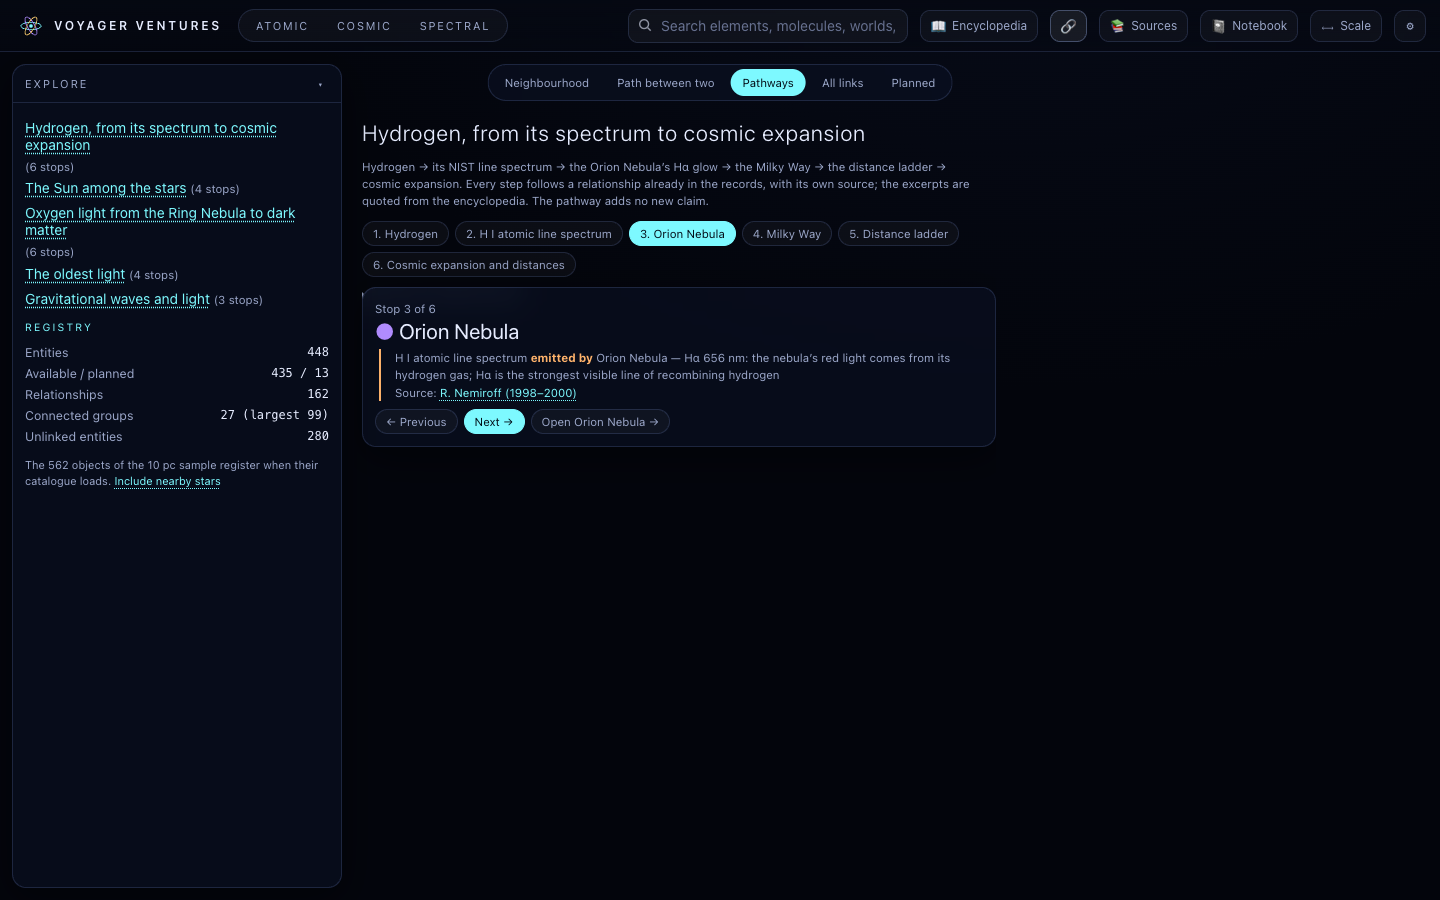
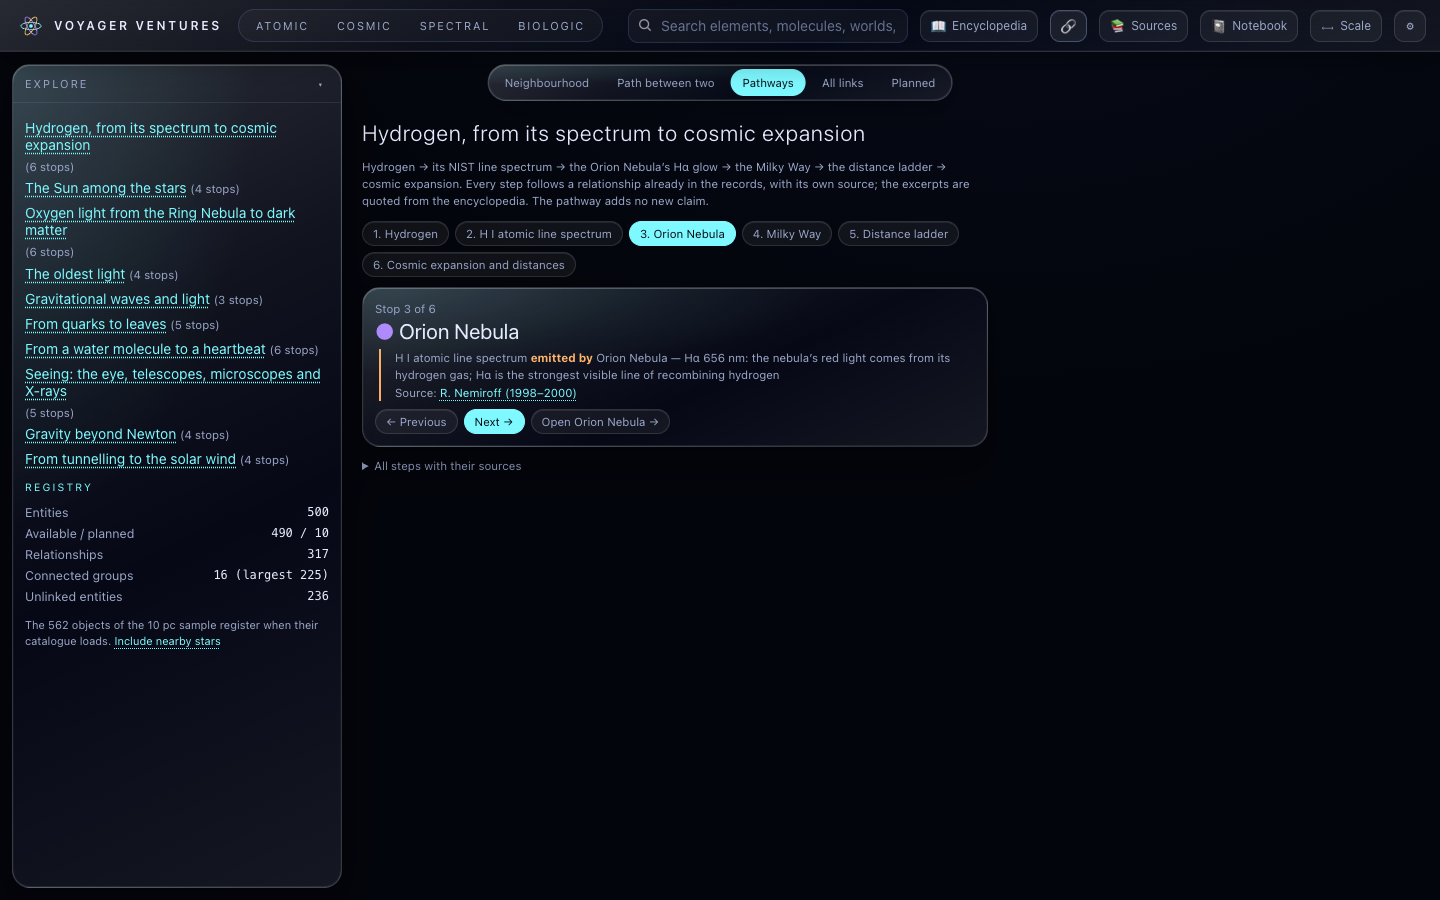
Gate 14.7: unified pathways through the Phase 11-14 records — Phase 14 complete
Five pathways, every step an existing sourced relationship; two Phase 14 edges
re-pointed to the Sun; pathway stop card no longer covers the steps list.

Claude-Session: https://claude.ai/code/session_012kk9KVTjrcZt1kBsRpDRu1

diff --git a/src/shared/pathways/pathways.ts b/src/shared/pathways/pathways.ts
@@ -21,6 +21,17 @@ export const PATHWAYS: Pathway[] = [
     entities: ['context:distance-ladder', 'context:cosmic-expansion', 'context:cmb', 'wave:em-microwave'] },
   { id: 'gravitational-waves', title: 'Gravitational waves and light', blurb: 'The GW150914 remnant → gravitational waves → gamma rays (GW170817 and GRB 170817A).',
     entities: ['compact-object:gw150914-final', 'context:gravitational-waves', 'wave:em-gamma'] },
+  // ---------------- Phase 14, Gate 14.7: pathways through the Phase 11–14 records ----------------
+  { id: 'quarks-to-leaves', title: 'From quarks to leaves', blurb: 'Nuclei → the particles of the Standard Model → visible light (the photon) → photosynthesis → plants.',
+    entities: ['instrument:nuclei', 'instrument:particles', 'wave:em-visible', 'process:photosynthesis', 'instrument:plants'] },
+  { id: 'water-to-nerves', title: 'From a water molecule to a heartbeat', blurb: 'Water → the body-to-molecule zoom → the human body → the heart → the ECG (senses and signals) → nerves.',
+    entities: ['molecule:pubchem-962', 'instrument:zoom', 'instrument:body', 'structure:organ-heart', 'instrument:senses', 'instrument:nerves'] },
+  { id: 'eye-to-xrays', title: 'Seeing: the eye, telescopes, microscopes and X-rays', blurb: 'Visible light → the eye → telescopes → imaging the body → X-rays.',
+    entities: ['wave:em-visible', 'instrument:senses', 'instrument:telescopes', 'instrument:imaging', 'wave:em-xray'] },
+  { id: 'gravity-beyond-newton', title: 'Gravity beyond Newton', blurb: 'Tests of general relativity → gravitational lensing → dark-matter evidence → dark matter or modified gravity?',
+    entities: ['instrument:grtests', 'context:gravitational-lensing', 'context:dark-matter', 'instrument:models'] },
+  { id: 'tunnelling-to-solar-wind', title: 'From tunnelling to the solar wind', blurb: 'The quantum lab → nuclei → the Sun → its plasma and the solar wind.',
+    entities: ['instrument:quantum', 'instrument:nuclei', 'body:sun', 'instrument:plasma'] },
 ];
 
 /** The relationship joining a → b (forward edges preferred), or null when the registry has none. */

diff --git a/tests/e2e/phase14.spec.ts b/tests/e2e/phase14.spec.ts
@@ -131,3 +131,21 @@ test('114 dark matter or modified gravity: the radial acceleration relation on 1
   await expect(page.locator('.stage-head h1')).toContainText('NGC3198');
   await shot(page, '114b-ngc3198', 'One galaxy: NGC 3198’s observed rotation curve, the Newtonian curve of its stars and gas, and eq. (4) with the paper’s fixed g† — nothing fitted to this galaxy.');
 });
+
+// ---------------- Gate 14.7 ----------------
+test('115 unified pathways: five walks through the Phase 11–14 records, every step a sourced relationship', async ({ page }) => {
+  await page.goto('/#/relations?tab=pathways&p=water-to-nerves');
+  await expect(page.getByRole('heading', { name: 'From a water molecule to a heartbeat' })).toBeVisible();
+  await expect(page.getByRole('list', { name: 'Stops' }).getByRole('listitem')).toHaveCount(6);
+  await page.goto('/#/relations?tab=pathways&p=water-to-nerves&s=3');
+  const s4 = page.getByRole('region', { name: 'Stop 4 of 6' });
+  await expect(s4).toContainText('Heart');
+  await shot(page, '115a-pathway-heart', 'Unified pathways (Gate 14.7): “From a water molecule to a heartbeat” — water → the body-to-molecule zoom → the body → the heart → the ECG → nerves, each step an existing relationship with its own source.');
+  await page.goto('/#/relations?tab=pathways&p=gravity-beyond-newton&s=3');
+  const last = page.getByRole('region', { name: 'Stop 4 of 4' });
+  await expect(last).toContainText('Dark matter or modified gravity?');
+  await expect(last).toContainText('McGaugh');
+  await page.goto('/#/relations?tab=pathways&p=quarks-to-leaves&s=2');
+  await expect(page.getByRole('region', { name: 'Stop 3 of 5' })).toContainText('the photon carries the electromagnetic force');
+  await shot(page, '115b-pathway-quarks', '“From quarks to leaves”: nuclei → Standard Model particles → visible light (DOE: the photon carries the electromagnetic force) → photosynthesis → plants.');
+});

diff --git a/src/modes/relations/RelationsView.tsx b/src/modes/relations/RelationsView.tsx
@@ -217,7 +217,7 @@ function PathwaysTab() {
         <ol className="pathway-stops" aria-label="Stops" style={{ display: 'flex', flexWrap: 'wrap', gap: 6, listStyle: 'none', padding: 0, margin: '6px 0 10px' }}>
           {p.entities.map((x, i) => <li key={x}><button className={`chip ${i === at ? 'active' : ''}`} aria-current={i === at ? 'step' : undefined} onClick={() => go(i)}>{i + 1}. {label(x)}</button></li>)}
         </ol>
-        <section aria-label={`Stop ${at + 1} of ${n}`} className="panel" style={{ padding: 12 }}>
+        <section aria-label={`Stop ${at + 1} of ${n}`} className="panel" style={{ padding: 12, position: 'relative' }}>
           <div className="note">Stop {at + 1} of {n}</div>
           <h2 style={{ margin: '2px 0 6px', fontWeight: 400 }}><span style={{ color: MODE_COL[entityMode(e)] }}>●</span> {e.label}</h2>
           {into && (() => { const src = edgeSource(into.edge); return (

diff --git a/DEVELOPMENT_ROADMAP.md b/DEVELOPMENT_ROADMAP.md
@@ -23,7 +23,7 @@ Treat each phase below as a proposal. Re-assess numerical methods, dataset acces
 | **11 Biologic Foundations** | 11.1 bio data infrastructure & atlas · 11.2 biomolecular encyclopedia · 11.3 protein structures · 11.4 cells · 11.5 organelles & membranes · 11.6 transport & biochemistry · 11.7 plant cells & microorganisms | **Complete** (Gates 11.1–11.7, 2026-11-28; not deployed — no deploy until Phase 14) |
 | **12 Human Anatomy & Physiology** | 12.1 reference model · 12.2 skeletal/muscular · 12.3 cardiovascular/respiratory · 12.4 nervous system & electrophysiology · 12.5 digestive/urinary/endocrine · 12.6 immune/reproductive/integumentary · 12.7 organ-to-cell navigation | **Complete** (Gates 12.1–12.7, 2026-11-28; not deployed — no deploy until Phase 14) |
 | 13 Waves, Life & Imaging | 13.1 vision · 13.2 hearing · 13.3 bioelectricity · 13.4 EM–tissue interactions · 13.5 optical & electron microscopy · 13.6 ultrasound/X-ray/MRI · 13.7 integrated visualisations | **Complete** — `#/biologic/senses` (13.1–13.3), `#/biologic/imaging` (13.4–13.7) |
-| 14 Advanced Foundations | 14.1 Standard Model atlas · 14.2 quantum lab · 14.3 nuclear physics & nucleosynthesis · 14.4 plasma/MHD · 14.5 advanced relativity · 14.6 cosmology & dark-matter model comparison · 14.7 unified pathways | **In progress** — 14.1–14.6 done (`#/atomic/particles`, `/quantum`, `/nuclei`; `#/cosmic/plasma`, `/grtests`, `/models`) |
+| 14 Advanced Foundations | 14.1 Standard Model atlas · 14.2 quantum lab · 14.3 nuclear physics & nucleosynthesis · 14.4 plasma/MHD · 14.5 advanced relativity · 14.6 cosmology & dark-matter model comparison · 14.7 unified pathways | **Complete** (2026-11-28; not deployed) — `#/atomic/particles`, `/quantum`, `/nuclei`; `#/cosmic/plasma`, `/grtests`, `/models`; five new pathways |
 | Queued: **15–19 Computing & Engineering** | 15 computing & computer engineering · 16 machine learning & AI · 17 mechanical & electrical engineering · 18 aerospace & space systems · 19 integrated systems & engineering simulator (brief: [COMPUTING_ENGINEERING_BRIEF](COMPUTING_ENGINEERING_BRIEF.md), verbatim) | **Queued** — begins once Phase 14 is complete (user, 2026-11-28) |
 | Queued: Meteorology & Climate | atmospheric physics · Earth weather atlas · storm laboratory · planetary meteorology · climate through geological time · oceans and biomes · human technology and environmental change · future climate · environmental sandbox (brief: [METEOROLOGY_EXPANSION_BRIEF](METEOROLOGY_EXPANSION_BRIEF.md), its phases A–G) | **Queued** (requested 2026-11-28 “once the computing and engineering section is complete”: after Phases 15–19; phase numbers from 20, assigned when it starts) |
 

diff --git a/HANDOFF_PHASES_11_14.md b/HANDOFF_PHASES_11_14.md
@@ -17,7 +17,7 @@ So:
 
 - **Phase 11 complete (2026-11-28):** 11.1 0487514 · 11.2 4e52562 · 11.3 b9ef5e5 · 11.4 d9f0b3b · 11.5 081aecf · 11.6 f4f7b6c · 11.7 d4050c5 (+ fix 0e3f379). 854 science tests, browser tests 94–100, 49 manifests, 208 sources. Biologic routes: `#/biologic` (scale of life), `/molecules`, `/proteins`, `/cells`, `/membranes`, `/transport`, `/plants`; top bar: Scale of life · Molecules ▾ · Cell biology ▾ · Plants & microbes (room for one more chip or menu at 1440 px — use a menu for Phase 12, e.g. **Body ▾**).
 - **Phase 12 complete (2026-11-28):** 12.1 49ed0b9 · 12.2–12.3 4056d97 · 12.4 2654619 · 12.5–12.7 970207c. 888 science tests, browser tests 101–106, 53 manifests, 219 sources. Body ▾ menu (Human body, Movement, Circulation & breathing, Nerves, Organ systems, From body to molecule). BodyParts3D organs built by `scripts/blender/build_body.py` (needs the BP3D OBJ zip unpacked; part lists in `scripts/ingestion/data/`). Research notes: `research/SOURCE_NOTES_PHASE12.md`. Phase 13 research agents launched; full e2e run in background.
-- **Phase 14 in progress:** 14.1–14.3 (Subatomic ▾) 5bbcab5; 14.4–14.6 (Cosmic plasma, grtests, models). Research notes: `research/SOURCE_NOTES_PHASE14.md`. End-of-Phase-13 full suite 102/102.
+- **Phase 14 complete (2026-11-28):** 14.1–14.3 5bbcab5 · 14.4–14.6 977106d · 14.7 pathways (next commit). Browser tests 109–115. See `HANDOFF_PHASE14.md`. Research notes: `research/SOURCE_NOTES_PHASE14.md`. End-of-Phase-13 full suite 102/102.
 - **Phase 13 complete (2026-11-28):** 13.1–13.3 senses 3595906 · 13.4–13.7 imaging (next commit). Browser tests 107–108. End-of-Phase-12 full suite: 100/100.
 - **New off-limits (found in Phase 11):** pubchem.ncbi.nlm.nih.gov (robots disallows ClaudeBot since 2026-10-29: keep bundled data, never fetch), book.bionumbers.org, europepmc.org, biodiversitylibrary.org, jbc.org (robots); cdc.gov, niaid.nih.gov, rupress.org, photochemcad.com, nih.gov (robots 403); nobelprize.org (terms); data.rcsb.org/rest (use files.rcsb.org). Research notes: `research/SOURCE_NOTES_PHASE11.md`.
 - **Queued after Phase 14 (user, 2026-11-28):** **Phases 15–19 Computing & Engineering** (`COMPUTING_ENGINEERING_BRIEF.md`, verbatim; begin once Phase 14 is complete, no confirmation needed), then the **Meteorology & Climate** expansion (`METEOROLOGY_EXPANSION_BRIEF.md`, Phases 20+).

diff --git a/STATUS_REPORT.md b/STATUS_REPORT.md
@@ -1,6 +1,6 @@
 # Voyager Ventures — status report and index
 
-*Kept up to date by Claude during the autonomous run. Last updated: **2026-11-28, Gates 14.4–14.6**.*
+*Kept up to date by Claude during the autonomous run. Last updated: **2026-11-28, end of Phase 14**.*
 
 Live site: https://voyager-ventures.vercel.app — **production still serves the build from 2026-11-27** (Phase 10 + universe map + interface pass). Nothing from Phases 11–14 is deployed: you asked for no deploys until Phase 14 is finished. The deploy command is at the bottom.
 
@@ -35,7 +35,7 @@ You said: if a permission prompt gets no answer within 5 minutes, treat it as de
 | **11 Biologic Foundations** | Biologic mode with seven views | **Complete** (not deployed) |
 | 12 Human Anatomy & Physiology | reference model, skeleton/muscle, heart/lungs, nervous system (Hodgkin–Huxley), other organ systems, organ-to-cell zoom | **Complete** (not deployed) |
 | 13 Waves, Life & Imaging | vision, hearing, bioelectricity, EM–tissue, microscopy, medical imaging | **Complete** (not deployed) |
-| 14 Advanced Foundations | Standard Model, quantum lab, nuclear physics, plasma, relativity, cosmology models | **In progress** — particles, quantum lab, nuclei, plasma, relativity tests, model comparison done |
+| 14 Advanced Foundations | Standard Model, quantum lab, nuclear physics, plasma, relativity, cosmology models | **Complete** (not deployed) |
 | 15–19 Computing & Engineering | your brief (`COMPUTING_ENGINEERING_BRIEF.md`, saved verbatim) | Queued — begins when Phase 14 is complete |
 | 20+ Meteorology & Climate | your brief (`METEOROLOGY_EXPANSION_BRIEF.md`, saved verbatim) | Queued — after Phase 19 |
 
@@ -95,6 +95,8 @@ Four portals: ATOMIC, COSMIC, SPECTRAL, **BIOLOGIC** (new in Phase 11; shows the
 ---
 
 ## 4. What was done in this run (newest first)
+
+- **Phase 14 complete** — Gate 14.7: five new pathways linking the new views across modes (Relationships 🔗 → Pathways). Phases 11–14 are all built; **ready for you to deploy** (command in §6).
 
 - **Gates 14.4–14.6** — plasma (NRL formulary, solar wind), tests of relativity (Einstein's 43″ for Mercury reproduced: 42.98″; Gravity Probe B), and a dark-matter vs modified-gravity comparison that reproduces a 2016 paper's sample and fit from the bundled galaxy data.
 

diff --git a/SCIENTIFIC_MODELS.md b/SCIENTIFIC_MODELS.md
@@ -692,3 +692,7 @@ All equations were read on page images.
 * **Tests of relativity (14.5):** Einstein (1916) p. 822, read on the page image: eq. (75) with JPL's elements gives Mercury 42.98″ per century (“43″”); eq. (74) gives 1.751″ at the solar limb (printed “1,7″”) and 0.016″ for Jupiter (“etwa 0,02″”). Gravity Probe B: measured −6,601.8 ± 18.3 and −37.2 ± 7.2 mas/yr against −6,606.1 and −39.2 (0.23σ, 0.28σ). Kerr ISCO: only the limits 9M, 6M, M (Cen & Song 2025, CC BY); Bardeen et al. (1972) not readable in an allowed copy, so no formula.
 * **Dark matter or modified gravity (14.6):** McGaugh, Lelli & Schombert (2016) eq. (4) on the bundled SPARC curves with their stated cuts (i ≥ 30°, SPARC Q = 3 excluded, 10 % velocity precision): 153 galaxies, 2,696 points (paper 2,693); g† refitted 1.16 × 10⁻¹⁰ m s⁻² (paper 1.20 ± 0.02 ± 0.24), scatter 0.133 dex (paper 0.13). Per-galaxy curves with eq. (4) and no free parameter. MOND a₀ = 1.2 × 10⁻¹⁰ (Famaey & McGaugh 2012). Friedmann (1922) eq. (5) quoted.
 * **Tests:** `tests/science/plasma.test.ts` (6), `gr-rar.test.ts` (5).
+
+## 65. Unified pathways (Phase 14, Gate 14.7): `src/shared/pathways/pathways.ts`, `#/relations?tab=pathways`
+
+Five new pathways through the Phase 11–14 records — From quarks to leaves; From a water molecule to a heartbeat; Seeing: the eye, telescopes, microscopes and X-rays; Gravity beyond Newton; From tunnelling to the solar wind — each a chain of existing registry relationships with an indexed source (checked by `tests/science/pathways.test.ts`). Two Phase 14 edges were re-pointed to the Sun so the chains read correctly (nuclei *explains* the Sun; the Sun *emits* the solar-wind plasma). Registry: 500 entities, 317 relationships, largest connected group 225.

diff --git a/BUILD_LOG.md b/BUILD_LOG.md
@@ -919,3 +919,11 @@ Committed together (one view with six tabs, one dataset).
 4. **Sources (+9, 260 entries):** nrl-formulary-2009, divine-1973, noaa-swpc-solar-wind, einstein-1916, gpb-stanford-2011, cen-song-2025, mcgaugh-2016-rar, famaey-mcgaugh-2012, friedmann-1922.
 5. **Screenshot helper:** Phase 14 captures wait for the heading and disable finite animations (blank frames were an entry animation caught mid-way, not an app fault).
 6. **Tests:** browser tests 112–114.
+
+## Gate 14.7: unified pathways, 2026-11-28 — Phase 14 complete
+
+1. **Five pathways** through the new records (see SCIENTIFIC_MODELS §65); every step an existing, sourced relationship. The sunlight → photosynthesis reaction edge cites a reaction record, not the Source index, so the first pathway goes through the photon instead.
+2. **Fix (pre-existing since Gate 8.6):** the pathway stop card is a `.panel` (absolutely positioned) and covered the “All steps with their sources” line; it now flows in the page.
+3. **Tests:** pathways and relations science tests; browser test 115.
+
+**Phase 14 summary:** Subatomic ▾ (particles, quantum lab, nuclei) in Atomic; plasma, tests of relativity and a dark-matter/modified-gravity comparison in Cosmic; five pathways. 18 new sources. Findings: Condon & Morse's (68.5) sign misprint; Mott's 1-cm example; Einstein's 43″ and 1.7″ reproduced (42.98″, 1.751″); the 2016 radial-acceleration sample and g† reproduced from the bundled SPARC tables (2,696 vs 2,693 points; 1.16 vs 1.20 × 10⁻¹⁰). Left out: the Kerr ISCO formula (paper not openly readable), the full CNO cycle and per-step solar-neutrino energies (no open source), a “three generations” statement (no public-domain source).

diff --git a/KNOWN_LIMITATIONS.md b/KNOWN_LIMITATIONS.md
@@ -236,6 +236,8 @@
 * **Model comparison (14.6):** fixed Υ⋆ (no per-galaxy fits); no MOND interpolating-function choice beyond eq. (4); Milgrom 1983 not openly available. The view does not adjudicate between dark matter and modified gravity.
 * **Nuclei (14.3):** NUBASE2020 masses may include extrapolated values (not flagged in the bundled table); the fit uses only A ≥ 16 and half-life ≥ 1 s to limit this. Liquid-drop model only — no shell effects, no fission barriers. Decay series: U-238 only (main branches). No full CNO cycle (no open source listing all its steps); no Bethe 1939 (not openly licensed).
 
+* **Pathways (14.7):** curated chains only; a pathway cannot pass where the registry has no sourced edge (e.g. no sourced Sun → visible-light edge, so “quarks to leaves” goes through the photon).
+
 ## Phase 13 (Waves, Life & Imaging)
 * **Senses (Gates 13.1–13.3):** the eye is Gullstrand's one-surface reduced eye — no accommodation, aberrations, retinal mosaic or acuity model; the diffraction curve leaves out aberrations, so it overstates sharpness for large pupils. Colour shows peak wavelengths only (CVRL tables are not licensed for redistribution): no sensitivity curves, no colour matching or colour-blindness simulation. Hearing gives Fletcher & Munson's intensity level only: their equal-loudness contours are not reproduced (figure, copyright of the reprint not verified); no 20 Hz–20 kHz range (no allowed open source found); NIDCD's dBA thresholds are a weighted scale. The ECG is a single dipole projected onto Einthoven's three leads — no waveform, no P-QRS-T timing (no open source for intervals found), no chest leads.
 

diff --git a/screenshots/phase-14/INDEX.md b/screenshots/phase-14/INDEX.md
@@ -16,3 +16,5 @@ Generated by `tests/e2e/phase14.spec.ts` from the running application (Playwrigh
 - **113c-gpb.png** — Gravity Probe B: measured geodetic and frame-dragging drifts against the predictions (Stanford/NASA 2011); Kerr ISCO limits.
 - **114a-rar.png** — Dark matter or modified gravity? (Gate 14.6): 2,696 points in 153 SPARC galaxies selected as McGaugh, Lelli & Schombert (2016) did (paper: 2,693); their eq. (4) with g† = 1.20 × 10⁻¹⁰ m/s² and refitted here, 1.16 × 10⁻¹⁰, against Newton’s line.
 - **114b-ngc3198.png** — One galaxy: NGC 3198’s observed rotation curve, the Newtonian curve of its stars and gas, and eq. (4) with the paper’s fixed g† — nothing fitted to this galaxy.
+- **115a-pathway-heart.png** — Unified pathways (Gate 14.7): “From a water molecule to a heartbeat” — water → the body-to-molecule zoom → the body → the heart → the ECG → nerves, each step an existing relationship with its own source.
+- **115b-pathway-quarks.png** — “From quarks to leaves”: nuclei → Standard Model particles → visible light (DOE: the photon carries the electromagnetic force) → photosynthesis → plants.
